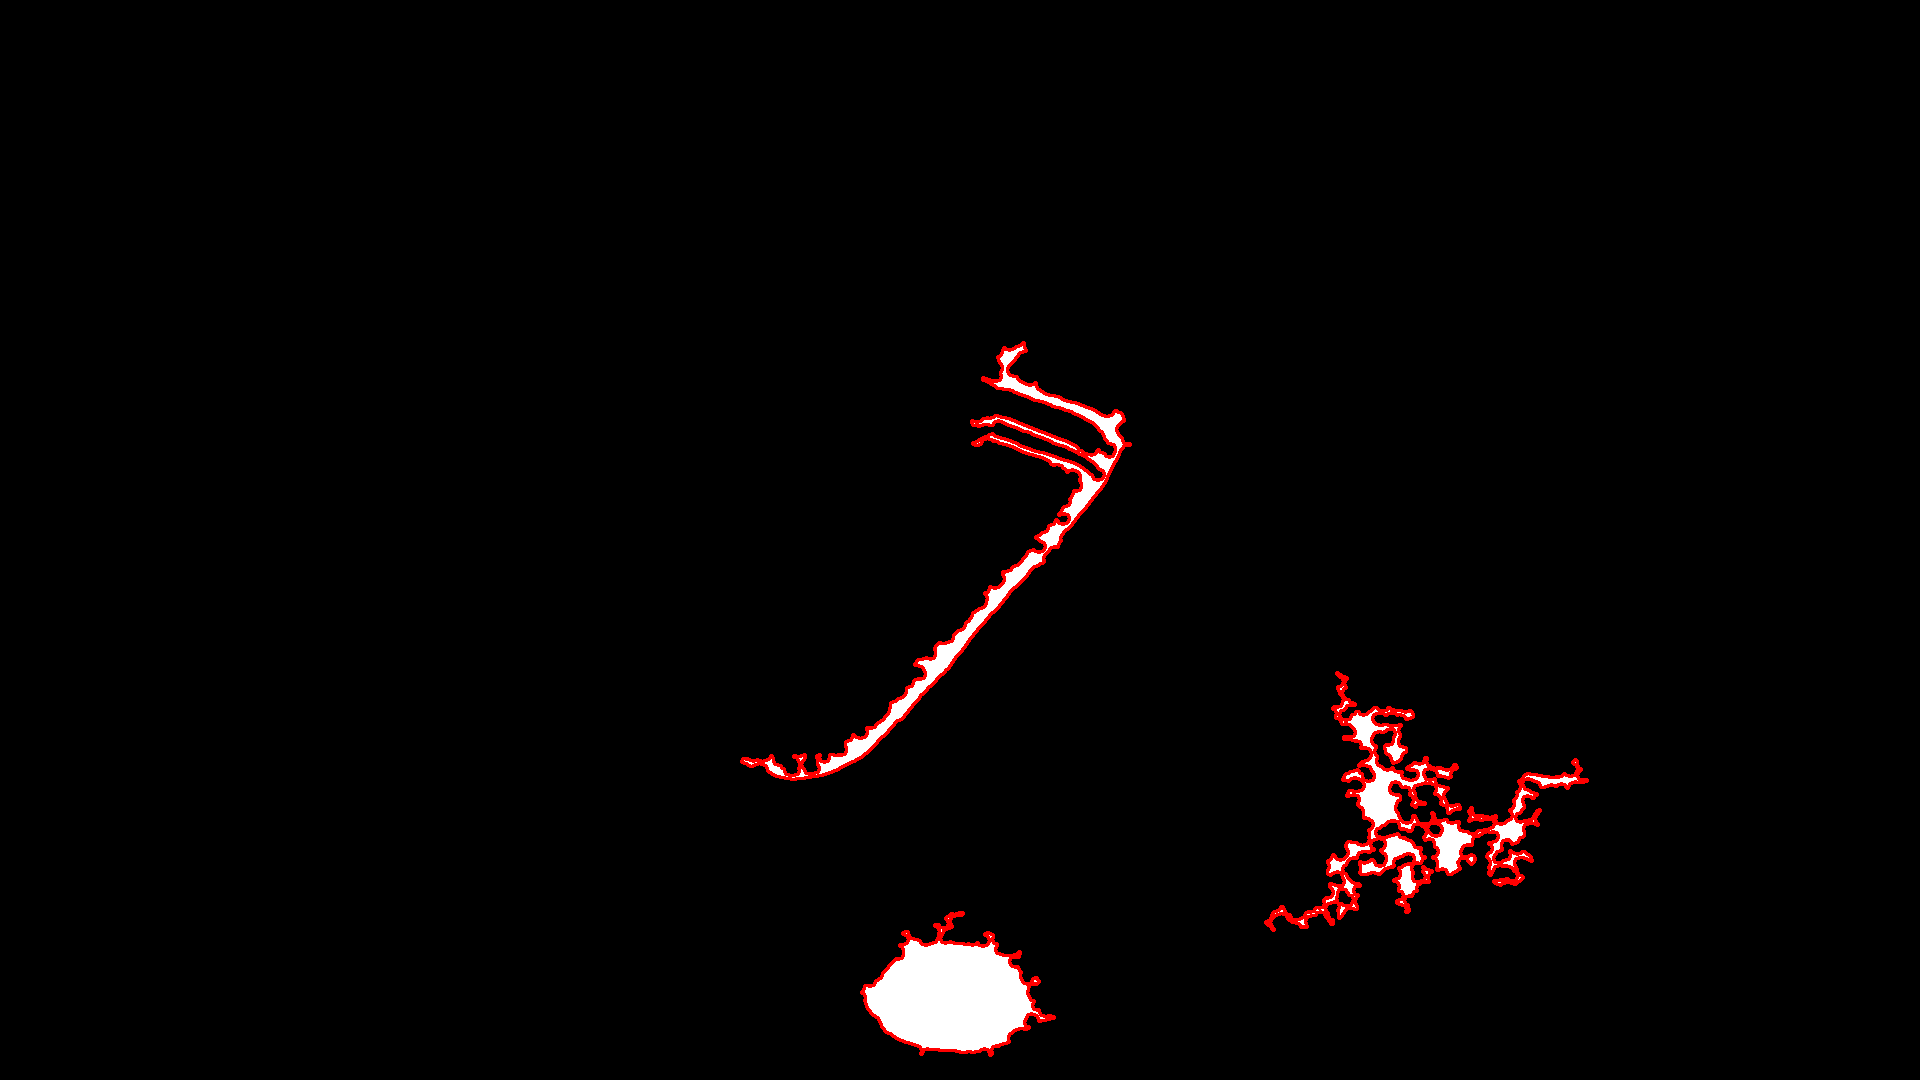
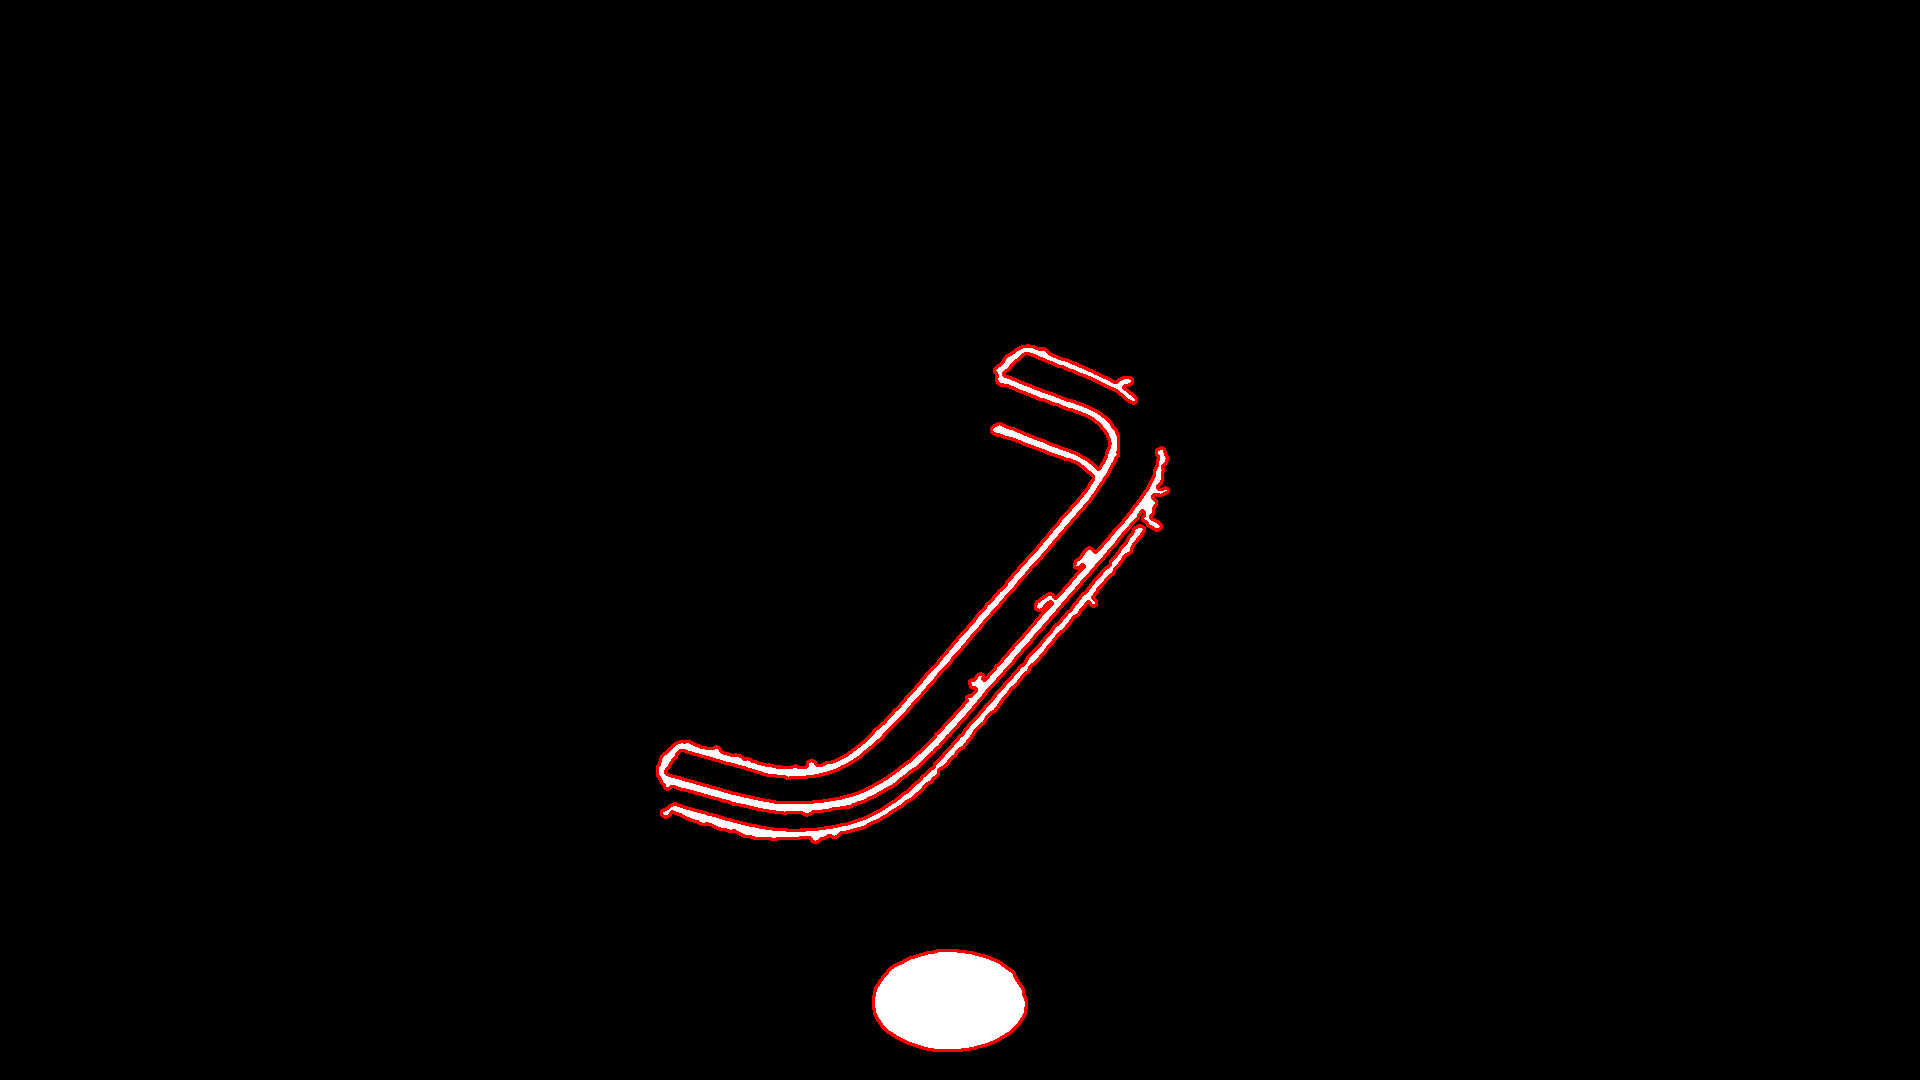
Mejoras en segmentacion

diff --git a/interfaz_robot/interfaz_robot.cpp b/interfaz_robot/interfaz_robot.cpp
@@ -499,12 +499,11 @@ void interfaz_robot::CalibrarCamaraRobot()
 cv::Mat interfaz_robot::ProcesarImagen() {
     namespace fs = std::filesystem;
     fs::path rutaEjecutable = fs::current_path();
-
     std::vector<fs::path> imagenes;
+
     for (const auto& entry : fs::directory_iterator(rutaEjecutable)) {
         std::string nombre = entry.path().filename().string();
-        if (nombre.rfind("pieza_", 0) == 0 &&
-            nombre.find("segmentada") == std::string::npos &&
+        if (nombre.rfind("pieza_", 0) == 0 && nombre.find("segmentada") == std::string::npos &&
             entry.path().extension() == ".png") {
             imagenes.push_back(entry.path());
         }
@@ -515,88 +514,96 @@ cv::Mat interfaz_robot::ProcesarImagen() {
         return cv::Mat();
     }
 
+    std::sort(imagenes.begin(), imagenes.end());
     cv::Mat ultimaProcesada;
 
     for (const auto& rutaImagen : imagenes) {
         std::cout << "Procesando: " << rutaImagen << std::endl;
-
         cv::Mat img = cv::imread(rutaImagen.string());
         if (img.empty()) {
             std::cerr << "No se pudo cargar " << rutaImagen << "\n";
             continue;
         }
 
+        // === 1. Recortar y reescalar ===
         cv::Mat procesada = recortarYReescalar(img);
         if (procesada.empty()) {
             std::cerr << "Error: resultado vacío tras recortarYReescalar.\n";
             continue;
         }
 
-        // --- PROCESAMIENTO ROBUSTO PARA VARIAS PIEZAS ---
-        cv::Mat gris, suavizada, fondoSuavizado, fondoRestado, ecualizada, binaria, limpia, salida;
-
-        // Convertir a escala de grises
+        // === 2. Convertir a escala de grises ===
+        cv::Mat gris;
         cv::cvtColor(procesada, gris, cv::COLOR_BGR2GRAY);
 
-        // Filtro bilateral: suaviza el fondo manteniendo bordes
-        cv::bilateralFilter(gris, suavizada, 9, 75, 75);
+        // === 3. Filtro de suavizado ===
+        cv::Mat suavizada;
+        cv::GaussianBlur(gris, suavizada, cv::Size(5, 5), 0);
+        cv::medianBlur(suavizada, suavizada, 5);
 
-        // Estimar fondo con filtro morfológico grande y restarlo
-        cv::morphologyEx(suavizada, fondoSuavizado, cv::MORPH_CLOSE,
-            cv::getStructuringElement(cv::MORPH_ELLIPSE, cv::Size(20, 20)));
-        cv::subtract(fondoSuavizado, suavizada, fondoRestado);
+        // === 4. Umbral adaptativo ===
+        cv::Mat binaria;
+        cv::adaptiveThreshold(
+            suavizada, binaria, 255, cv::ADAPTIVE_THRESH_GAUSSIAN_C,
+            cv::THRESH_BINARY_INV, 21, 3
+        );
 
-        // Ecualización adaptativa (CLAHE)
-        cv::Ptr<cv::CLAHE> clahe = cv::createCLAHE(3.0, cv::Size(8, 8));
-        clahe->apply(fondoRestado, ecualizada);
+        // === 5. Morfología para limpiar ruido ===
+        cv::Mat kernelCierre = cv::getStructuringElement(cv::MORPH_ELLIPSE, cv::Size(7, 7));
+        cv::morphologyEx(binaria, binaria, cv::MORPH_CLOSE, kernelCierre, cv::Point(-1, -1), 1);
+        cv::Mat kernelApertura = cv::getStructuringElement(cv::MORPH_ELLIPSE, cv::Size(3, 3));
+        cv::morphologyEx(binaria, binaria, cv::MORPH_OPEN, kernelApertura, cv::Point(-1, -1), 1);
 
-        // Umbral adaptativo
-        cv::adaptiveThreshold(ecualizada, binaria, 255, cv::ADAPTIVE_THRESH_GAUSSIAN_C,
-            cv::THRESH_BINARY_INV, 25, 5);
-
-        // Operaciones morfológicas: abrir para eliminar ruido y cerrar para unir regiones
-// Operaciones morfológicas: primero cerrar huecos, luego eliminar ruido
-        cv::morphologyEx(binaria, limpia, cv::MORPH_CLOSE,
-            cv::getStructuringElement(cv::MORPH_ELLIPSE, cv::Size(9, 9)));
-        cv::morphologyEx(limpia, limpia, cv::MORPH_OPEN,
-            cv::getStructuringElement(cv::MORPH_ELLIPSE, cv::Size(3, 3)));
-
-
-
-        // Encontrar contornos
+        // === 6. Detección de contornos ===
         std::vector<std::vector<cv::Point>> contornos;
-        std::vector<cv::Vec4i> jerarquia;
-        cv::findContours(limpia.clone(), contornos, jerarquia, cv::RETR_EXTERNAL, cv::CHAIN_APPROX_SIMPLE);
+        cv::findContours(binaria.clone(), contornos, cv::RETR_EXTERNAL, cv::CHAIN_APPROX_SIMPLE);
 
-        // Crear máscara y eliminar objetos pequeños (<500 px)
-        cv::Mat mascara = cv::Mat::zeros(limpia.size(), CV_8UC1);
+        // === 7. Filtrar contornos por área y bordes (sin elipses) ===
+        cv::Mat plano = cv::Mat::zeros(binaria.size(), CV_8UC1);
+        double areaMinima = procesada.cols * procesada.rows * 0.001;
+        std::vector<std::vector<cv::Point>> contornosValidos;
         for (const auto& c : contornos) {
             double area = cv::contourArea(c);
-            if (area >= 10000.0) // solo conserva objetos grandes
-                cv::drawContours(mascara, std::vector<std::vector<cv::Point>>{c}, -1, 255, cv::FILLED);
+            if (area < areaMinima) continue;
+            // Eliminar contornos que tocan los bordes
+            cv::Rect bbox = cv::boundingRect(c);
+            if (bbox.x <= 1 || bbox.y <= 1 ||
+                bbox.x + bbox.width >= procesada.cols - 1 ||
+                bbox.y + bbox.height >= procesada.rows - 1) continue;
+            contornosValidos.push_back(c);
         }
 
-        // Convertir a color para dibujar contornos
-        cv::cvtColor(mascara, salida, cv::COLOR_GRAY2BGR);
+        // === 8. Mejorar unión de contornos según proximidad ===
+        cv::drawContours(plano, contornosValidos, -1, 255, cv::FILLED);
+        cv::Mat kernelDilate = cv::getStructuringElement(cv::MORPH_ELLIPSE, cv::Size(5, 5));
+        cv::dilate(plano, plano, kernelDilate);
+        cv::Mat kernelBlur = cv::getStructuringElement(cv::MORPH_ELLIPSE, cv::Size(3, 3));
+        cv::morphologyEx(plano, plano, cv::MORPH_OPEN, kernelBlur);
 
-        // Dibujar contornos solo para objetos grandes (>= 500 px)
-        for (const auto& c : contornos) {
-            double area = cv::contourArea(c);
-            if (area >= 10000.0)
-                cv::drawContours(salida, std::vector<std::vector<cv::Point>>{c}, -1, cv::Scalar(0, 0, 255), 2);
-        }
+        // === 9. Dibujar contornos finales sobre imagen procesada ===
+        std::vector<std::vector<cv::Point>> contornosFinales;
+        cv::findContours(plano.clone(), contornosFinales, cv::RETR_EXTERNAL, cv::CHAIN_APPROX_SIMPLE);
+        cv::Mat salidaColor;
+        cv::cvtColor(plano, salidaColor, cv::COLOR_GRAY2BGR);
+        cv::drawContours(salidaColor, contornosFinales, -1, cv::Scalar(0, 0, 255), 2);
 
-        // Guardar resultado
-        fs::path rutaSalida = rutaImagen.parent_path() / (rutaImagen.stem().string() + "_segmentada.png");
-        cv::imwrite(rutaSalida.string(), salida);
-
-        ultimaProcesada = salida.clone();
-
-        std::cout << "Imagen segmentada guardada en: " << rutaSalida << std::endl;
+        // === 10. Guardar resultado ===
+        fs::path rutaColor = rutaImagen.parent_path() / (rutaImagen.stem().string() + "_segmentada.png");
+        cv::imwrite(rutaColor.string(), salidaColor);
+        std::cout << "Guardada la imagen segmentada: " << rutaColor << std::endl;
+        ultimaProcesada = salidaColor.clone();
     }
 
     return ultimaProcesada;
 }
+
+
+
+
+
+
+
+
 
 
 
